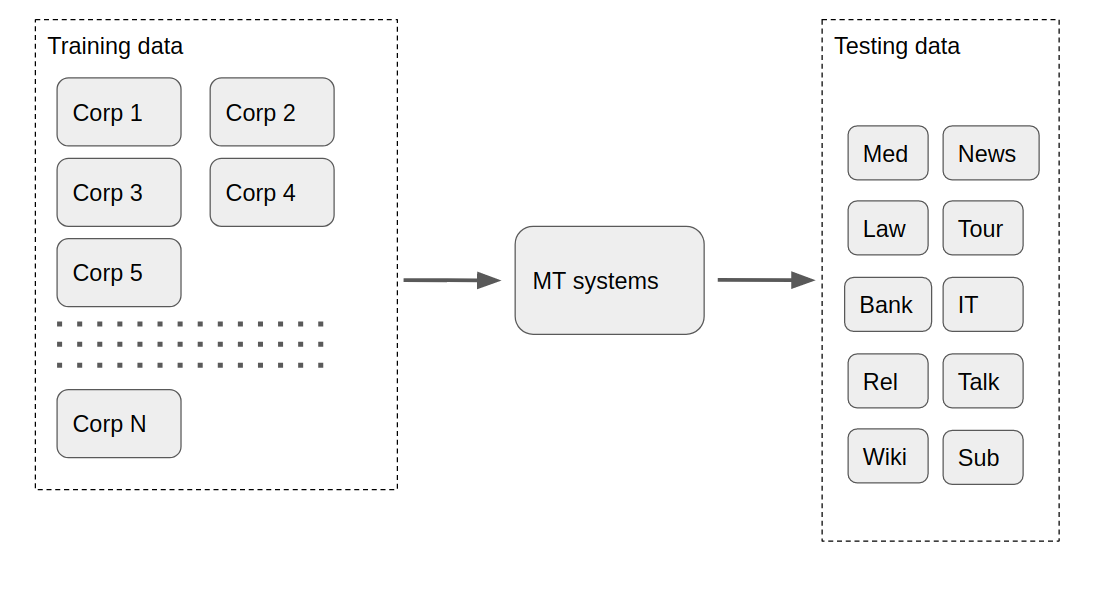
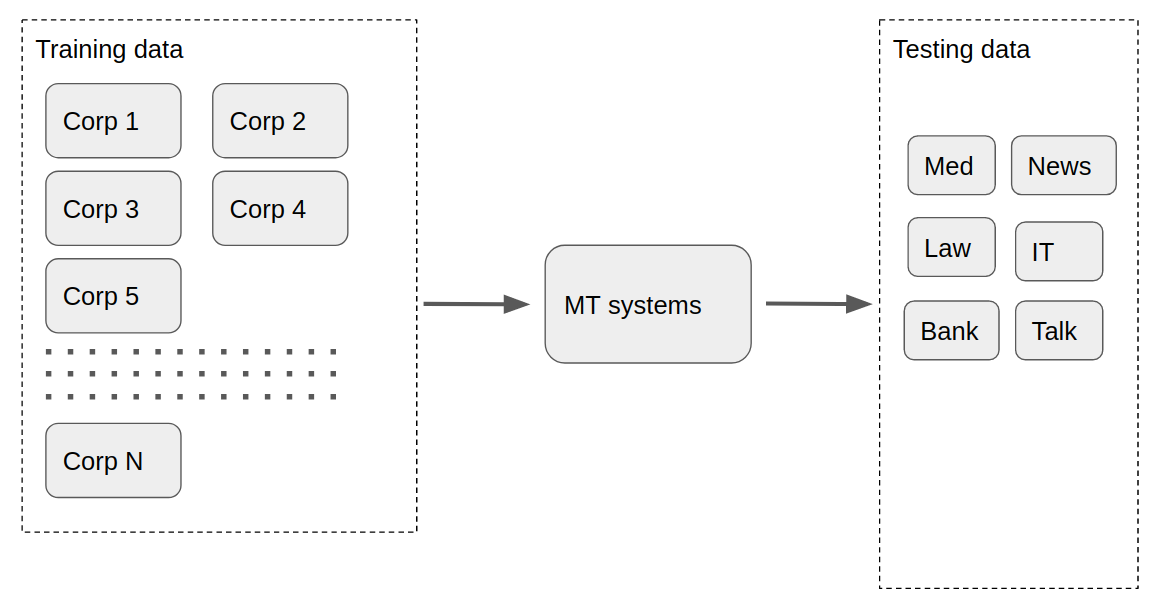
adding slides question+measure

diff --git a/2021/eacl_2021/mdmt.tex b/2021/eacl_2021/mdmt.tex
@@ -105,21 +105,58 @@
 %%%%%%%%%%%%%%%%%%%%%%%%%%%%%%%%%%%%%%%%%%%%%%%%%%%%%%%%%%
 
 \begin{frame}
-\frametitle{Multi domain MT}
-\begin{itemize}
-\item Training data: $(x_i, y_i, d_i)$.
-\item IID assumption is violated.
-\begin{align*}
-D^s &= \sum_{d} \lambda^s_d \mathcal{D}^s_d(x) \\
-D^t &= \sum_{d} \lambda^t_{d} \mathcal{D}^t_{d}(x)
-\end{align*}
-\end{itemize}
+\frametitle{High variety of parallel data}
+\begin{figure}
+\includegraphics[width=\textwidth]{variety.png}
+\end{figure}
+\end{frame}
+
+\begin{frame}
+\frametitle{Robust against the unbalance between domains}
+\begin{figure}
+\includegraphics[width=\textwidth]{unbalanced_question.png}
+\end{figure}
+\end{frame}
+
+\begin{frame}
+\frametitle{Robust against variable test distribution}
+\begin{figure}
+\includegraphics[width=\textwidth]{test_question.png}
+\end{figure}
+\end{frame}
+
+\begin{frame}
+\frametitle{Domain similarity}
+\begin{figure}
+\includegraphics[width=\textwidth]{split_question.png}
+\end{figure}
+\end{frame}
+
+\begin{frame}
+\frametitle{Large number of non-identified domains}
+\begin{figure}
+\includegraphics[width=\textwidth]{cluster_question.png}
+\end{figure}
+\end{frame}
+
+\begin{frame}
+\frametitle{Integrating new domain}
+\begin{figure}
+\includegraphics[width=\textwidth]{new_question.png}
+\end{figure}
+\end{frame}
+
+\begin{frame}
+\frametitle{MDMT}
+\begin{figure}
+\includegraphics[width=\textwidth]{MDMT_question.png}
+\end{figure}
 \end{frame}
 
 %---------------------------------------------------------
 \begin{frame}
 \vspace{-0.2cm}
-\frametitle{Axiomatic of MDMT}
+\frametitle{Experiment design}
 \begin{figure}
 \includegraphics[width=\textwidth]{mdmt.png}
 \end{figure}
@@ -127,26 +164,13 @@ D^t &= \sum_{d} \lambda^t_{d} \mathcal{D}^t_{d}(x)
 %---------------------------------------------------------
 \begin{frame}
 \vspace{-0.2cm}
-\frametitle{Axiomatic of MDMT}
+\frametitle{Experiment design}
 \begin{figure}
 \includegraphics[width=\textwidth]{unlabeled.png}
 \caption{Data without domain label}
 \end{figure}
 \end{frame}
 %---------------------------------------------------------
-
-%---------------------------------------------------------
-\begin{frame}
-\frametitle{Multi-criteria evaluation}
-Multi-criteria evaluation:
-	\begin{itemize}
-		\item<1-> Variable-size in-domain corpora in training data.
-		\item<2-> Random domain labeling and out-of-domain test sets. 
-		\item<3-> Fuzzy domain separation.
-		\item<4-> Training in considering unsupervised clusters as domains.
-		\item<5-> Continuation of training with new domain data.
-	\end{itemize}
-\end{frame}
 
 %%%%%%%%%%%%%%%%%%%%%%%%%%%%%%%%%%%%%%%%%%%%%%%%%%%%%%%%%%
 \section{Experimental setting} %%%%%%%%%%%%%%
@@ -156,24 +180,24 @@ Multi-criteria evaluation:
 \begin{frame}
 \frametitle{Revisited methods}
 \begin{itemize}
-	\item<1-> Domain control (Kobus et al 2017)
+	\item Domain control (Kobus et al 2017)
 	\begin{itemize}
-		\item<2-> Domain tag (DC-Tag)
-		\item<3-> Domain embedding (DC-Feat)
+		\item Domain tag (DC-Tag)
+		\item Domain embedding (DC-Feat)
 	\end{itemize}
-	\item<4-> Lexicalized Domain Representation (Pham et al 2019) (LDR)
-	\item<5-> Domain mixing (Britz et al 2018)
+	\item Lexicalized Domain Representation (Pham et al 2019) (LDR)
+	\item Domain mixing (Britz et al 2018)
 	\begin{itemize}
-		\item<6-> Domain tag in target (TTM)
-		\item<7-> Domain mixing (DM)
-		\item<8-> Adversarial Domain mixing (ADM)
+		\item Domain tag in target (TTM)
+		\item Domain mixing (DM)
+		\item Adversarial Domain mixing (ADM)
 	\end{itemize}
-	\item<9-> Residual Adapter (Bapna et al 2019)
+	\item Residual Adapter (Bapna et al 2019)
 	\begin{itemize}
-		\item<10-> Fine-tuning (FT-Res)
-		\item<11-> Multi-task learning (MDL-Res)
+		\item Fine-tuning (FT-Res)
+		\item Multi-task learning (MDL-Res)
 	\end{itemize}
-	\item<12-> Full fine-tuning (FT-full)
+	\item Full fine-tuning (FT-full)
 \end{itemize}
 \end{frame}
 %---------------------------------------------------------
@@ -283,11 +307,16 @@ Multi-criteria evaluation:
 %Two columns
 \begin{frame}
 \begin{itemize}
-	\item Multi-domain NMT is a hard problem that requires much more effort of research.
-	\item The standard evaluation, which is often reported in the papers working on multi-domain NMT, is naive.
-	\item A call for building robust NMT systems in more realistic scenarios: \newline
-          eg.\ large number of domains, extreme unbalancing, unseen domains and continuous learning etc.
-	\item \fyTodo{To add more conclusions}
+	%\item Multi-domain NMT is a hard problem that requires much more effort of research.
+	%\item The standard evaluation, which is often reported in the papers working on multi-domain NMT, is naive.
+	%\item A call for building robust NMT systems in more realistic scenarios: \newline
+     %     eg.\ large number of domains, extreme unbalancing, unseen domains and continuous learning etc.
+	%\item \fyTodo{To add more conclusions}
+	
+	\item Clarify the objective, wrt test distributions, design experiments accordingly.	
+	\item Use as many domains as possible.
+	\item Pay attention to the balance between domains, wrt their similarities.
+	
 	
 \end{itemize}
 \end{frame}
